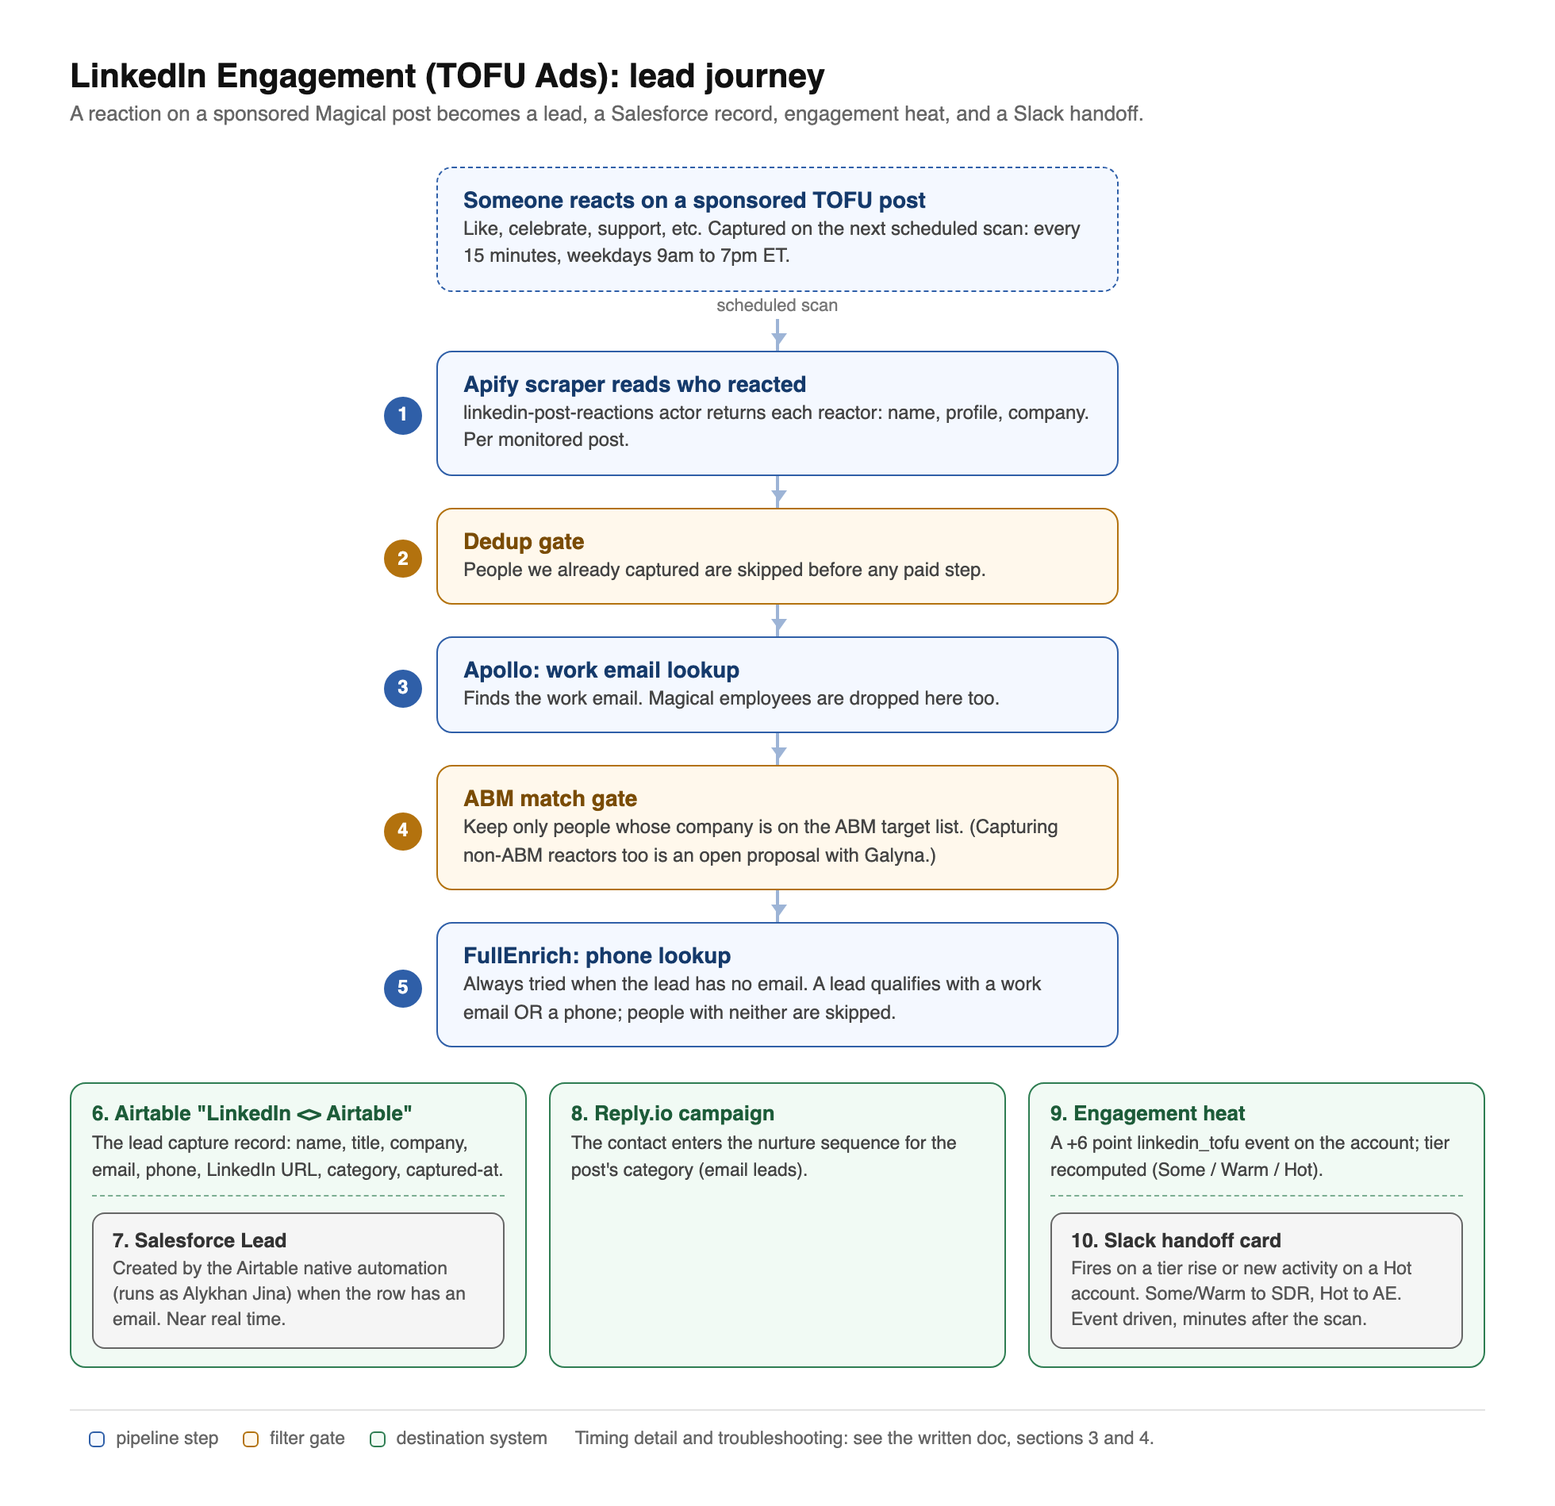
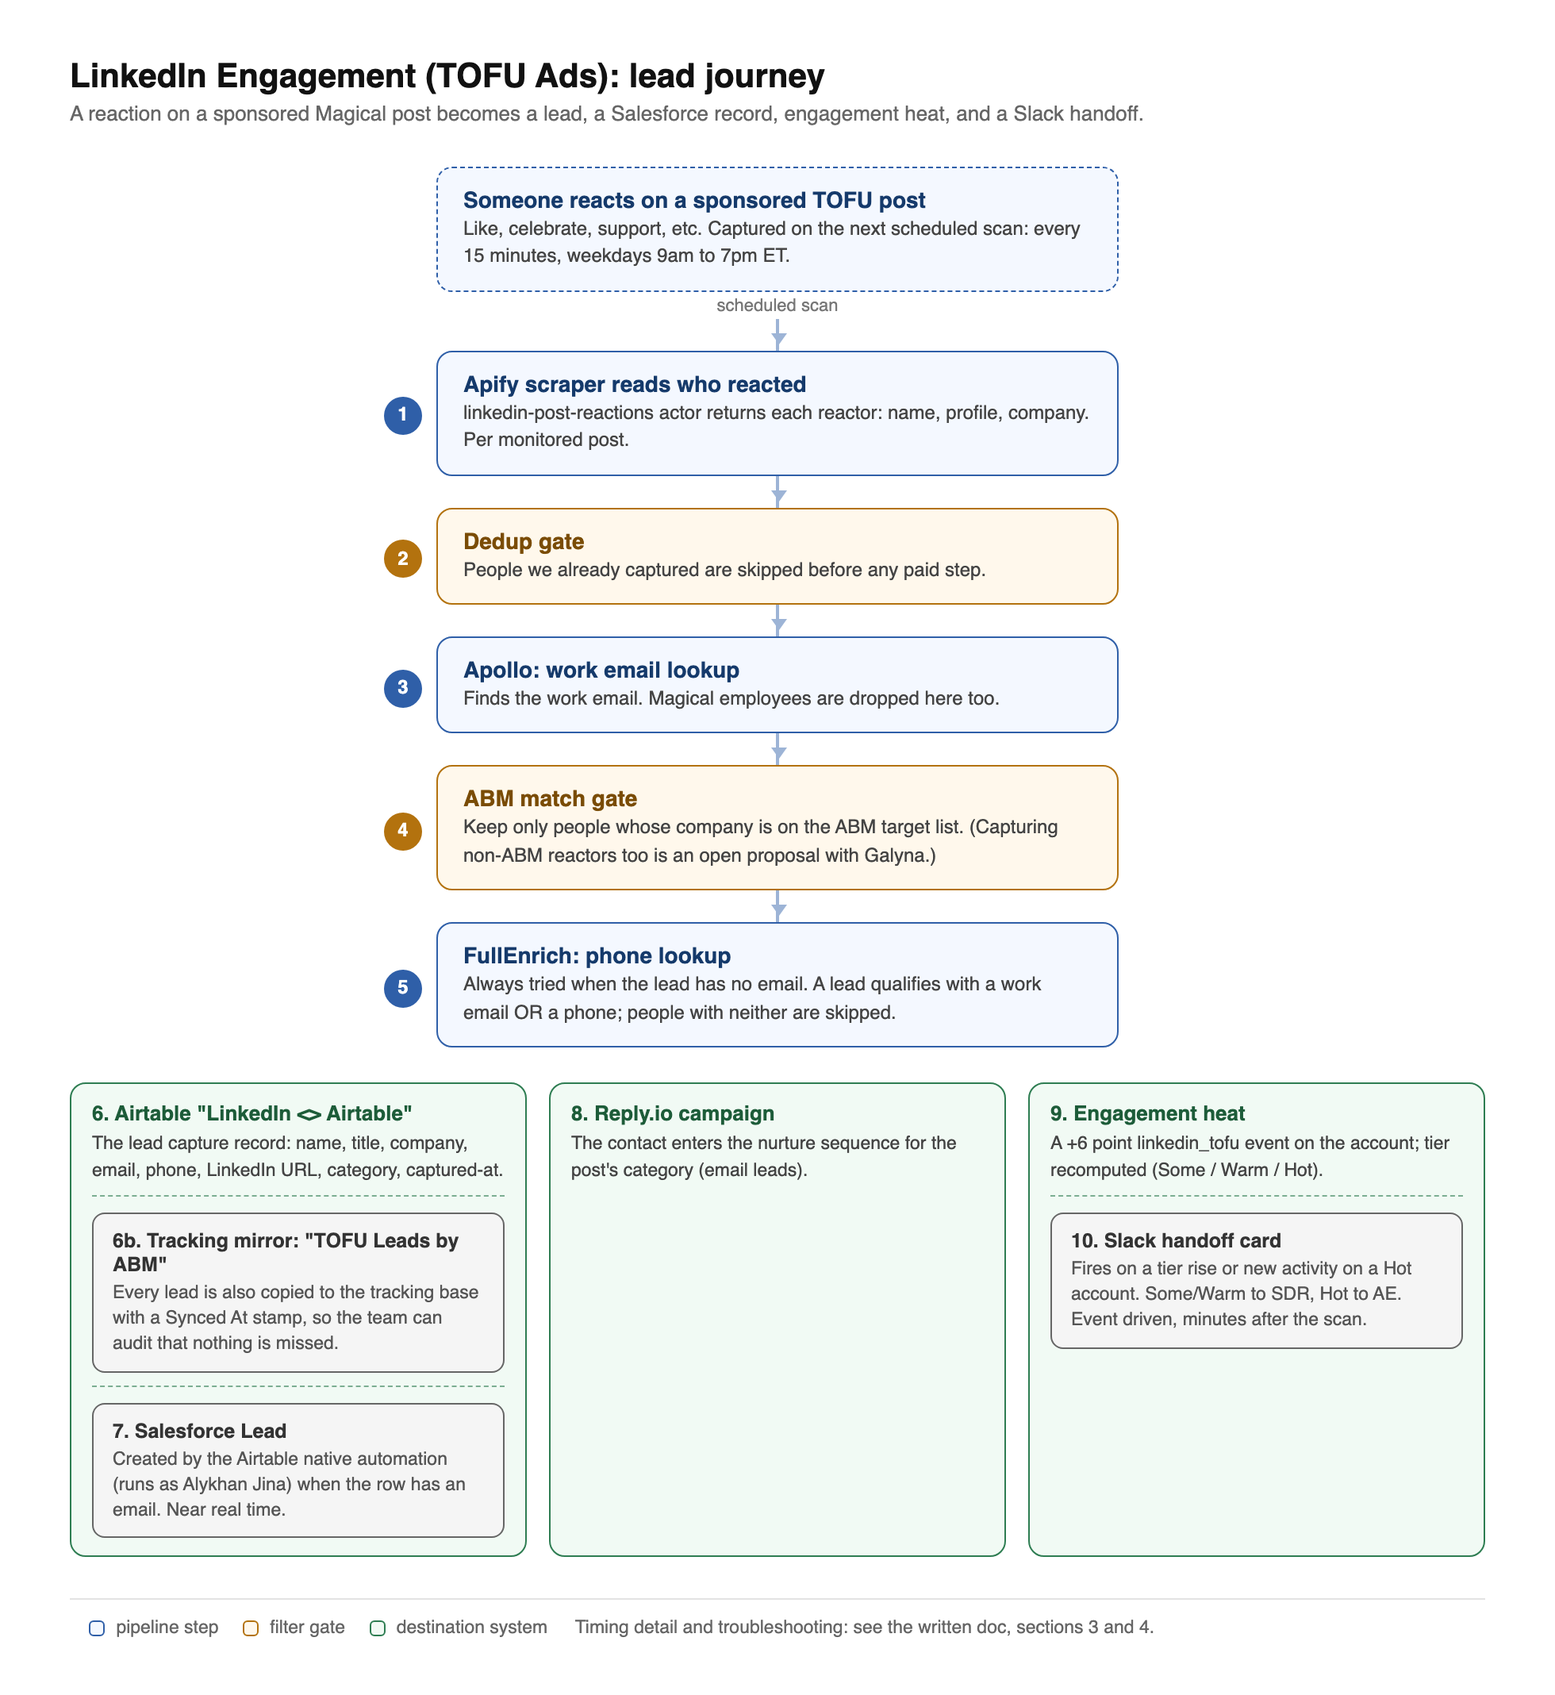
TOFU tracking mirror (Galyna 2026-07-08): dual-write leads to 'TOFU Leads by ABM' base
Every lead written to the primary 'LinkedIn <> Airtable' table is also copied
to a second base with a Synced At stamp — the audit table proving the capture
workflow misses nothing. Env-gated (AIRTABLE_TOFU_MIRROR_BASE_ID[/TABLE]):
no env, no mirror, primary untouched. Mirror failures never block the lead;
they count into stats and post a throttled ops alert (+ one recovered note).
scripts/backfill_tofu_mirror.py is the one-command activation: clones the
primary table schema (+ Synced At) into the mirror base and backfills every
existing row. AirtableClient grows a paged read-only records() for it.

Changed region(s): [[0.0311, 0.0311, 0.7469, 0.9636], [0.6536, 0.6528, 0.9337, 0.9015]]

diff --git a/scripts/backfill_tofu_mirror.py b/scripts/backfill_tofu_mirror.py
@@ -1,0 +1,144 @@
+"""One-command activation for the TOFU tracking mirror (Galyna, 2026-07-08).
+
+The mirror is a second Airtable base ("TOFU Leads by ABM") that receives a copy
+of every captured LinkedIn TOFU lead, so the team can audit that the capture
+workflow misses nothing. The runner dual-writes new leads once
+AIRTABLE_TOFU_MIRROR_BASE_ID is set; THIS script does the one-time setup:
+
+  1. Ensures the mirror TABLE exists — created via the Airtable meta API by
+     cloning the primary table's schema (same columns) plus a "Synced At"
+     dateTime column. Idempotent: an existing table is reused.
+  2. Backfills EVERY existing row from the primary "LinkedIn <> Airtable"
+     table into the mirror (upsert on Email, else LinkedIn URL), stamping
+     Synced At, so the mirror proves historical completeness too.
+
+Usage:
+    python scripts/backfill_tofu_mirror.py            # dry-run: reports counts
+    python scripts/backfill_tofu_mirror.py --apply    # create table + write
+
+Needs: AIRTABLE_API_KEY with access to BOTH bases (data read/write + schema
+write on the mirror base), AIRTABLE_BASE_ID / AIRTABLE_LINKEDIN_TABLE (primary),
+AIRTABLE_TOFU_MIRROR_BASE_ID (+ optional AIRTABLE_TOFU_MIRROR_TABLE name).
+"""
+
+from __future__ import annotations
+
+import argparse
+import asyncio
+import os
+import sys
+from datetime import UTC, datetime
+
+import httpx
+from dotenv import load_dotenv
+
+load_dotenv(override=True)
+
+_META = "https://api.airtable.com/v0/meta/bases"
+# Field types the meta API can create as-is; anything else lands as text.
+_CLONEABLE = {"singleLineText", "multilineText", "url", "email", "phoneNumber",
+              "number", "checkbox", "dateTime", "date", "singleSelect", "multipleSelects"}
+
+
+def _hdr() -> dict:
+    return {"Authorization": f"Bearer {os.environ['AIRTABLE_API_KEY']}",
+            "Content-Type": "application/json"}
+
+
+def _clone_field(f: dict) -> dict:
+    """A creatable field spec from a primary-table field. Options are copied
+    when present; unsupported types degrade to plain text (data still lands
+    because writes use typecast)."""
+    if f["type"] not in _CLONEABLE:
+        return {"name": f["name"], "type": "singleLineText"}
+    out = {"name": f["name"], "type": f["type"]}
+    if f.get("options"):
+        out["options"] = f["options"]
+    return out
+
+
+def ensure_mirror_table(primary_base: str, primary_table: str,
+                        mirror_base: str, mirror_name: str, *, apply: bool) -> str | None:
+    """Return the mirror table id (creating it if needed under --apply)."""
+    with httpx.Client(timeout=30) as c:
+        prim = c.get(f"{_META}/{primary_base}/tables", headers=_hdr())
+        prim.raise_for_status()
+        src = next(t for t in prim.json()["tables"]
+                   if t["name"] == primary_table or t["id"] == primary_table)
+        mirr = c.get(f"{_META}/{mirror_base}/tables", headers=_hdr())
+        mirr.raise_for_status()
+        existing = next((t for t in mirr.json()["tables"] if t["name"] == mirror_name), None)
+        if existing:
+            print(f"[mirror] table exists: {existing['name']} ({existing['id']})")
+            return existing["id"]
+        fields = [_clone_field(f) for f in src["fields"]
+                  if f["name"] != "Synced At" and not f["name"].startswith("ABM Match")]
+        fields.append({"name": "Synced At", "type": "dateTime",
+                       "options": {"timeZone": "utc",
+                                   "dateFormat": {"name": "iso"},
+                                   "timeFormat": {"name": "24hour"}}})
+        if not apply:
+            print(f"[mirror] would CREATE table '{mirror_name}' with "
+                  f"{len(fields)} columns (dry-run)")
+            return None
+        r = c.post(f"{_META}/{mirror_base}/tables", headers=_hdr(),
+                   json={"name": mirror_name, "fields": fields})
+        r.raise_for_status()
+        tid = r.json()["id"]
+        print(f"[mirror] created table '{mirror_name}' ({tid})")
+        return tid
+
+
+async def backfill(mirror_table_id: str | None, *, apply: bool) -> None:
+    from auto_search.engagement.airtable_client import AirtableClient
+
+    primary = AirtableClient()
+    rows = await primary.records()
+    print(f"[mirror] primary rows: {len(rows)}")
+    if not apply:
+        keyed = sum(1 for r in rows
+                    if (r["fields"].get("Email") or r["fields"].get("LinkedIn URL")))
+        print(f"[mirror] would backfill {keyed} keyed rows "
+              f"({len(rows) - keyed} unkeyed would be created as-is). Dry-run.")
+        return
+    mirror = AirtableClient(base_id=os.environ["AIRTABLE_TOFU_MIRROR_BASE_ID"],
+                            table=mirror_table_id
+                            or os.getenv("AIRTABLE_TOFU_MIRROR_TABLE", "TOFU Leads by ABM"))
+    now = datetime.now(UTC).isoformat()
+    ok = failed = 0
+    for r in rows:
+        fields = {k: v for k, v in r["fields"].items() if v not in (None, "")}
+        fields.pop("ABM Match", None)          # unused field, not part of the mirror
+        fields["Synced At"] = now
+        try:
+            if fields.get("Email"):
+                await mirror.upsert(fields, merge_on=["Email"])
+            elif fields.get("LinkedIn URL"):
+                await mirror.upsert(fields, merge_on=["LinkedIn URL"])
+            else:
+                await mirror.create(fields)    # unkeyed legacy row — copy as-is
+            ok += 1
+        except Exception as e:  # noqa: BLE001 — keep going; report at the end
+            failed += 1
+            print(f"[mirror] FAILED row {r['id']}: {e}", file=sys.stderr)
+    print(f"[mirror] backfill done: {ok} written, {failed} failed of {len(rows)}")
+
+
+def main() -> int:
+    ap = argparse.ArgumentParser(description="Create + backfill the TOFU tracking mirror")
+    ap.add_argument("--apply", action="store_true", help="actually create/write")
+    args = ap.parse_args()
+    mirror_base = os.getenv("AIRTABLE_TOFU_MIRROR_BASE_ID")
+    if not mirror_base:
+        print("AIRTABLE_TOFU_MIRROR_BASE_ID not set — add the mirror base id first.")
+        return 1
+    tid = ensure_mirror_table(os.environ["AIRTABLE_BASE_ID"],
+                              os.environ["AIRTABLE_LINKEDIN_TABLE"], mirror_base,
+                              os.getenv("AIRTABLE_TOFU_MIRROR_TABLE", "TOFU Leads by ABM"),
+                              apply=args.apply)
+    asyncio.run(backfill(tid, apply=args.apply))
+    return 0
+
+
+if __name__ == "__main__":
+    sys.exit(main())

diff --git a/scripts/run_linkedin_tofu.py b/scripts/run_linkedin_tofu.py
@@ -168,17 +168,24 @@ def main() -> int:
         _crash_alert(engagement_repo, f"no usable share_ids in {csv_path}")
         return 1
 
-    airtable = reply = None
+    airtable = reply = mirror = None
     if not args.dry_run:
         from auto_search.engagement.airtable_client import AirtableClient
         from auto_search.engagement.replyio_client import ReplyioClient
         airtable = AirtableClient()
         reply = ReplyioClient()
+        # Tracking mirror (Galyna, 2026-07-08): dual-write every lead to the
+        # "TOFU Leads by ABM" base. Unset env -> no mirror, primary unaffected.
+        if os.getenv("AIRTABLE_TOFU_MIRROR_BASE_ID"):
+            mirror = AirtableClient(
+                base_id=os.environ["AIRTABLE_TOFU_MIRROR_BASE_ID"],
+                table=os.getenv("AIRTABLE_TOFU_MIRROR_TABLE", "TOFU Leads by ABM"))
     try:
         summary = asyncio.run(linkedin_ads_runner.run(
             share_categories=share_categories, engagement_repo=engagement_repo,
             scoring_repo=get_scoring_repository(), discovery_repo=get_repository(),
-            airtable_client=airtable, replyio_client=reply, max_reactions=args.max_reactions,
+            airtable_client=airtable, replyio_client=reply, mirror_client=mirror,
+            max_reactions=args.max_reactions,
             max_contacts=args.max_contacts, max_leads=args.max_leads, dry_run=args.dry_run))
     except Exception:  # noqa: BLE001 — cron leg: log + signal failure, don't traceback-crash
         logger.exception("[run_linkedin_tofu] run failed")
@@ -186,6 +193,30 @@ def main() -> int:
         _crash_alert(engagement_repo, traceback.format_exc())
         return 1
     _recovery_alert(engagement_repo)           # posts once iff a crash alert was open
+    # Mirror health: the tracking table's whole job is proving nothing is
+    # missed, so mirror write failures must be TOLD (throttled), and one
+    # recovered note posts when it heals.
+    mf = summary["stats"].get("mirror_failed", 0)
+    if not args.dry_run and mf:
+        try:
+            from auto_search.ops import alerts
+            if alerts.should_alert(engagement_repo, "tofu-mirror", min_gap_hours=3.0):
+                alerts.post_ops_alert(
+                    kind="tofu-mirror", severity="warning", service="linkedin-tofu-cron",
+                    title=f"TOFU tracking mirror: {mf} lead(s) failed to write",
+                    detail="Primary Airtable is unaffected. Check the API token's "
+                           "access to the mirror base; the backfill script re-syncs.")
+        except Exception:  # noqa: BLE001
+            logger.warning("mirror alert failed (continuing)")
+    elif not args.dry_run and summary["stats"].get("mirror_upserted"):
+        try:
+            from auto_search.ops import alerts
+            if alerts.mark_ok(engagement_repo, "tofu-mirror"):
+                alerts.post_ops_alert(kind="tofu-mirror", severity="recovered",
+                                      service="linkedin-tofu-cron",
+                                      title="TOFU tracking mirror healthy again")
+        except Exception:  # noqa: BLE001
+            logger.warning("mirror recovery alert failed (continuing)")
     if not args.dry_run:                       # stamp the last real run for the throttle
         # pass last_synced_at explicitly: set_sync_state only auto-stamps on
         # status success/failed, so "ok" alone would leave it NULL (→ never throttles).

diff --git a/tests/test_linkedin_ads.py b/tests/test_linkedin_ads.py
@@ -400,3 +400,43 @@ async def test_max_leads_caps_output(patched, monkeypatch):
                            airtable_client=_FakeAirtable(), replyio_client=_FakeReply(),
                            dry_run=True, max_leads=1)
     assert out["stats"]["would_create"] == 1   # capped at 1, not 2
+
+
+# ── the tracking mirror (Galyna's "TOFU Leads by ABM" base, 2026-07-08) ─
+
+
+async def test_mirror_receives_copy_with_synced_at(patched, monkeypatch):
+    """Every lead that lands in the primary table is also written to the
+    mirror, stamped Synced At; the mirror never gets rows the primary lacks."""
+    monkeypatch.setattr(runner, "cross_and_persist", lambda **kw: (2, 2))
+    air, mir = _FakeAirtable(), _FakeAirtable()
+    out = await runner.run(share_categories={"111": "Ortho"}, engagement_repo=object(),
+                           scoring_repo=None, discovery_repo=None,
+                           airtable_client=air, replyio_client=_FakeReply(),
+                           mirror_client=mir, dry_run=False)
+    assert len(mir.upserts) == len(air.upserts) == 2
+    assert out["stats"]["mirror_upserted"] == 2
+    m = mir.upserts[0]["fields"]
+    assert m["Email"] == "anna@abmco.com" and m["Synced At"]
+    assert mir.upserts[0]["merge_on"] == ["Email"]
+
+
+async def test_mirror_failure_never_blocks_the_lead(patched, monkeypatch):
+    monkeypatch.setattr(runner, "cross_and_persist", lambda **kw: (2, 2))
+    air, mir = _FakeAirtable(), _FakeAirtable(fail=True)
+    out = await runner.run(share_categories={"111": "Ortho"}, engagement_repo=object(),
+                           scoring_repo=None, discovery_repo=None,
+                           airtable_client=air, replyio_client=_FakeReply(),
+                           mirror_client=mir, dry_run=False)
+    assert len(air.upserts) == 2                       # primary rows all landed
+    assert out["stats"]["mirror_failed"] == 2          # counted for the ops alert
+    assert out["stats"]["airtable_upserted"] == 2
+
+
+async def test_no_mirror_client_means_no_mirror_stats(patched, monkeypatch):
+    monkeypatch.setattr(runner, "cross_and_persist", lambda **kw: (2, 2))
+    out = await runner.run(share_categories={"111": "Ortho"}, engagement_repo=object(),
+                           scoring_repo=None, discovery_repo=None,
+                           airtable_client=_FakeAirtable(), replyio_client=_FakeReply(),
+                           dry_run=False)
+    assert "mirror_upserted" not in out["stats"] and "mirror_failed" not in out["stats"]

diff --git a/auto_search/engagement/linkedin_ads_runner.py b/auto_search/engagement/linkedin_ads_runner.py
@@ -99,7 +99,8 @@ async def _scrape(share_categories: dict[str, str], *, max_reactions: int) -> li
 
 async def run(*, share_categories: dict[str, str], engagement_repo, scoring_repo,
               discovery_repo, airtable_client=None, replyio_client=None,
-              max_reactions: int = 50, max_contacts: int | None = None,
+              mirror_client=None, max_reactions: int = 50,
+              max_contacts: int | None = None,
               max_leads: int | None = None, dry_run: bool = True,
               now: str | None = None) -> dict:
     """Run the pipeline. Returns {dry_run, stats, results}. Never raises per-contact —
@@ -237,6 +238,21 @@ async def run(*, share_categories: dict[str, str], engagement_repo, scoring_repo
             stats["airtable_failed"] += 1
             results.append(outcome)
             continue
+
+        # Tracking mirror (Galyna, 2026-07-08): the same row is ALSO written to
+        # the "TOFU Leads by ABM" base, stamped Synced At, so the team can audit
+        # that the workflow misses nothing. Strictly best-effort: a mirror
+        # failure never blocks the lead (primary row already landed above), it
+        # is counted and ops-alerted by the caller.
+        if mirror_client is not None:
+            try:
+                await mirror_client.upsert(
+                    {**fields, "Synced At": now},
+                    merge_on=["Email"] if email else ["LinkedIn URL"])
+                stats["mirror_upserted"] += 1
+            except Exception as e:  # noqa: BLE001
+                logger.warning("mirror upsert failed for %s: %s", email or enriched_url, e)
+                stats["mirror_failed"] += 1
 
         try:
             # Reply.io is an EMAIL sequencer: phone-only leads can't enroll —

diff --git a/auto_search/engagement/airtable_client.py b/auto_search/engagement/airtable_client.py
@@ -99,6 +99,19 @@ class AirtableClient:
         body = {"records": [{"fields": fields}], "typecast": True}
         return await self._send("POST", body)
 
+    async def records(self) -> list[dict]:
+        """Every record in the table (paged, read-only). Used by the mirror
+        backfill. Returns raw record dicts ({id, fields, createdTime})."""
+        out: list[dict] = []
+        offset = None
+        while True:
+            url = f"{self._url}?pageSize=100" + (f"&offset={offset}" if offset else "")
+            d = await self._send("GET", None, url=url)
+            out.extend(d.get("records") or [])
+            offset = d.get("offset")
+            if not offset:
+                return out
+
     @staticmethod
     def record_id(resp: dict) -> str | None:
         """Pull the (first) record id out of an upsert/create response."""

diff --git a/docs/ENGAGEMENT_LINKEDIN_FLOW.md b/docs/ENGAGEMENT_LINKEDIN_FLOW.md
@@ -42,6 +42,9 @@ Someone reacts (like, celebrate, etc.) on a Magical sponsored TOFU post
       |
       +--> [6] Airtable "LinkedIn <> Airtable" table   (lead capture record)
       |            |
+      |            +--> [6b] Tracking mirror: "TOFU Leads by ABM" base
+      |            |         (every lead copied, stamped Synced At — the
+      |            |          audit table proving no lead is missed)
       |            v  Airtable native automation (on create, email-gated)
       |       [7] Salesforce Lead   (created by the Airtable automation)
       |
@@ -61,6 +64,7 @@ Someone reacts (like, celebrate, etc.) on a Magical sponsored TOFU post
 | 4 | Our runner (ABM gate) | Keep only ABM target companies | per reactor | company -> keep or drop |
 | 5 | FullEnrich | Phone number (best effort) | per surviving lead | contact -> phone |
 | 6 | Airtable ("LinkedIn <> Airtable") | Lead capture of record | upsert (email is the key) | contact -> Airtable row |
+| 6b | Airtable ("TOFU Leads by ABM" base) | Tracking mirror: an audit copy of every captured lead, stamped Synced At, so the team can verify nothing is missed | after each successful primary write | same row + Synced At -> mirror row |
 | 7 | Salesforce | CRM Lead | Airtable automation (runs as Alykhan Jina) | Airtable row -> SFDC Lead |
 | 8 | Reply.io | Nurture sequence | contact added | contact -> campaign member |
 | 9 | ABM platform (Postgres) | Engagement heat and account tier | event recorded | account -> linkedin_tofu +6 pts |
@@ -139,6 +143,7 @@ A captured engagement lands in four places. Access and fields:
 | Where | What it holds | Fields | Access |
 |---|---|---|---|
 | **Airtable, "LinkedIn <> Airtable" table** | The lead capture record (the monitoring table for this ticket) | Name, title, company, email, phone, LinkedIn URL, post category, captured-at timestamp | [airtable.com/appniZ6UOILREppmF](https://airtable.com/appniZ6UOILREppmF) (table "LinkedIn <> Airtable"; no access yet: ask Sunny or Alykhan for an invite) |
+| **Airtable, "TOFU Leads by ABM" base (tracking mirror)** | An audit copy of every captured lead, including the full historical backfill | Same columns as the primary table plus Synced At (when the pipeline wrote the row) | New base created 2026-07-08 (invite from Galyna/Sunny; link added at activation) |
 | **Salesforce** | The CRM Lead | Standard Lead fields plus source | Existing SFDC seats (Leads, source "TOFU Engagement Campaign") |
 | **ABM platform, Engagement tab** | Account-level view: heat score, tier, last touch, and the full dated timeline of every touch | Account, tier, points per event, timestamps per event | [engagement-preview-production.up.railway.app](https://engagement-preview-production.up.railway.app) (login required; creds from Sunny. Justin, Gabe, Ben already have access) |
 | **Platform database** | Raw store behind the console (one linkedin_tofu event per captured reaction) | contacts + events tables with full timestamps | Engineering only |
